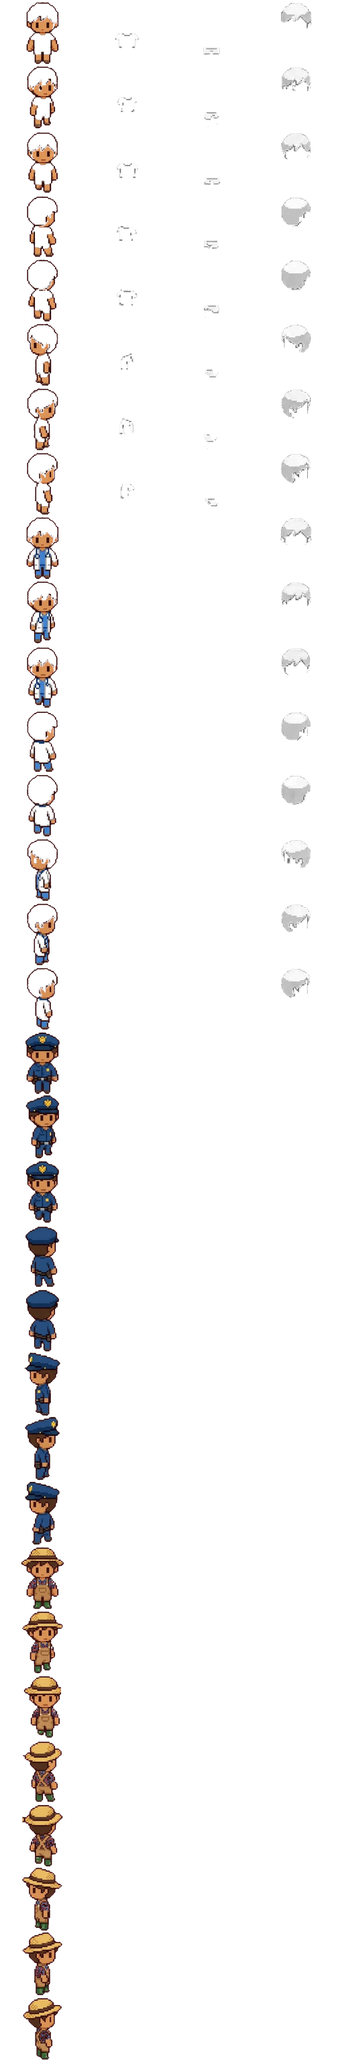
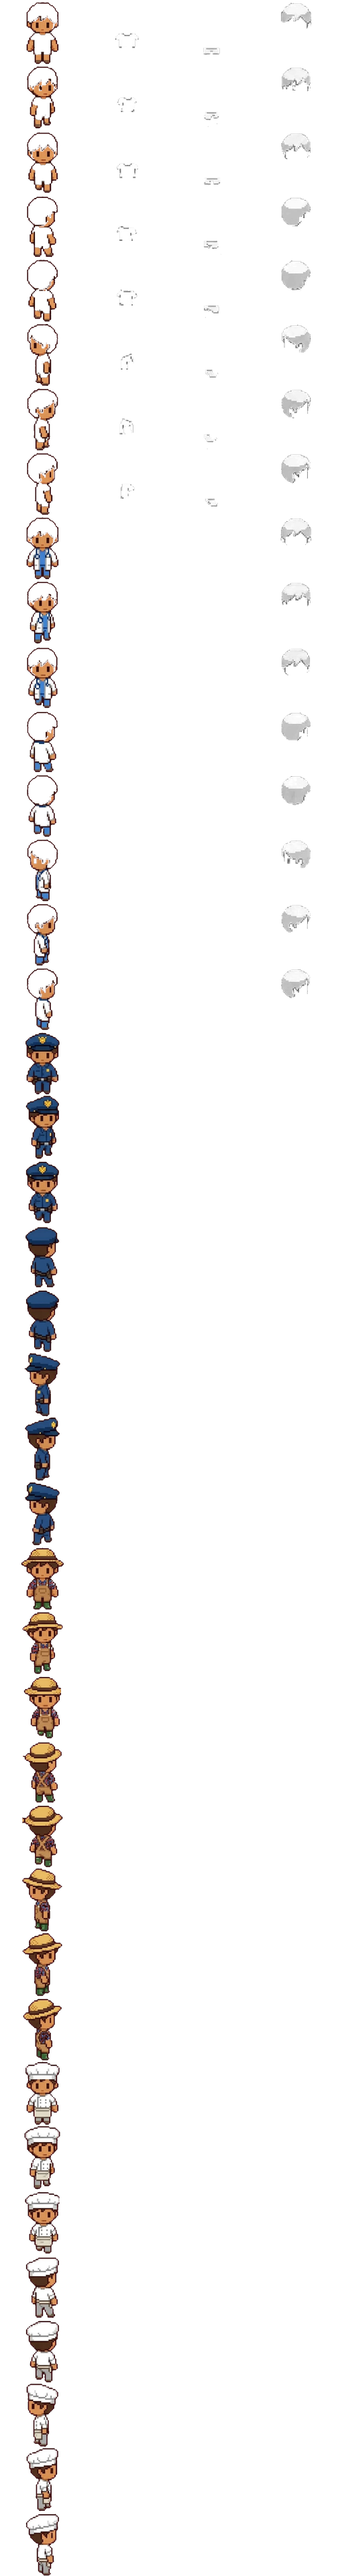
Chef outfit from the new pixel sheet
Claude-Session: https://claude.ai/code/session_011vTRLcvJmqJKhBboYRSi88

Changed region(s): [[0.0595, 0.0, 0.1786, 1.0], [0.8333, 0.0, 0.9226, 0.5]]

diff --git a/public/game.js b/public/game.js
@@ -64,7 +64,7 @@ function charFrame(frame, lk) {
   return c;
 }
 // draw one character with its feet at (fx, fy), k = scale per sprite pixel; view = front | side | back; step = walk step 0-3; faceLeft for the side view
-const CAREER_OUTFIT = { doctor: 'doctor', police: 'police', farmer: 'farmer' };
+const CAREER_OUTFIT = { doctor: 'doctor', police: 'police', farmer: 'farmer', chef: 'chef' };
 const WALK = { front: ['down0', 'down1', 'down0', 'down2'], back: ['up0', 'up1', 'up0', 'up1'], side: ['left0', 'left1', 'left0', 'left2'] };
 function drawCharTo(g, p, fx, fy, k, view, step, faceLeft) {
   // career outfits: doctors wear the white coat + scrubs sheet (only their hair colour is applied)

diff --git a/tools/build_pixel_chars.py b/tools/build_pixel_chars.py
@@ -16,7 +16,8 @@ OUT = 'public/assets/pchar'
 # outfit -> (sheet, which layers are recoloured). Outfits other than 'base' keep their clothes and only dye the hair.
 SHEETS = {'base': ('tools/sheets/pixel_char.jpg', ('shirt', 'pants', 'hair')), 'doctor': ('tools/sheets/pixel_doctor.jpg', ('hair',)),
           'police': ('tools/sheets/pixel_police.jpg', ()),
-          'farmer': ('tools/sheets/pixel_farmer.jpg', ())}
+          'farmer': ('tools/sheets/pixel_farmer.jpg', ()),
+          'chef': ('tools/sheets/pixel_chef.jpg', ())}
 # per-sheet frame overrides (some sheets put the poses in different cells)
 FRAME_FIX = {'police': {'left2': 6}}
 TARGET_H = 96

diff --git a/README.md b/README.md
@@ -99,7 +99,7 @@ npm start          # http://localhost:3000
 บน Render เซิร์ฟเวอร์จะ ping ตัวเองทุก 9 นาที (ใช้ `RENDER_EXTERNAL_URL` ที่ Render ใส่ให้เอง หรือกำหนด `KEEPALIVE_URL` เอง) จึงไม่หลับตอนไม่มีคนเล่น
 
 ## กราฟิกตัวละครและหน้าจอ
-- ตัวละคร (พิกเซลอาร์ต): `tools/sheets/pixel_char.jpg` → `python3 tools/build_pixel_chars.py` → `public/assets/pchar.webp/json` · 8 เฟรม (หน้า 3, หลัง 2, ข้าง 3 กลับด้านเป็นขวา) แต่ละเฟรมแยก 4 ชั้น: ตัว / เสื้อ / กางเกง / ผม แล้วเกมย้อมสีตามที่ผู้เล่นเลือก · ชุดตามอาชีพ: แพทย์ใส่เสื้อกาวน์ + ชุดสครับ (`pixel_doctor.jpg`, ย้อมแค่สีผม), ตำรวจใส่เครื่องแบบ + หมวก (`pixel_police.jpg`), เกษตรกรใส่หมวกฟาง + เอี๊ยม + บู๊ท (`pixel_farmer.jpg`) เพิ่มชุดอาชีพอื่นได้ที่ `SHEETS` ใน build_pixel_chars.py · ผู้เล่นใหม่เลือกเพศและสีเสื้อ ผมเริ่มต้นเหมือนกันทุกคน (น้ำตาล) ย้อมผม/เปลี่ยนเสื้อ/กางเกงได้ที่ร้านแฟชั่น & ทำผม · ชาวเมือง NPC 12 คนเดินไปมาในเมือง
+- ตัวละคร (พิกเซลอาร์ต): `tools/sheets/pixel_char.jpg` → `python3 tools/build_pixel_chars.py` → `public/assets/pchar.webp/json` · 8 เฟรม (หน้า 3, หลัง 2, ข้าง 3 กลับด้านเป็นขวา) แต่ละเฟรมแยก 4 ชั้น: ตัว / เสื้อ / กางเกง / ผม แล้วเกมย้อมสีตามที่ผู้เล่นเลือก · ชุดตามอาชีพ: แพทย์ใส่เสื้อกาวน์ + ชุดสครับ (`pixel_doctor.jpg`, ย้อมแค่สีผม), ตำรวจใส่เครื่องแบบ + หมวก (`pixel_police.jpg`), เกษตรกรใส่หมวกฟาง + เอี๊ยม + บู๊ท (`pixel_farmer.jpg`), เชฟใส่หมวกเชฟ + เสื้อเชฟ + ผ้ากันเปื้อน (`pixel_chef.jpg`) เพิ่มชุดอาชีพอื่นได้ที่ `SHEETS` ใน build_pixel_chars.py · ผู้เล่นใหม่เลือกเพศและสีเสื้อ ผมเริ่มต้นเหมือนกันทุกคน (น้ำตาล) ย้อมผม/เปลี่ยนเสื้อ/กางเกงได้ที่ร้านแฟชั่น & ทำผม · ชาวเมือง NPC 12 คนเดินไปมาในเมือง
 - หน้าจอ/เมนู: `tools/sheets/ui.jpg` → `python3 tools/build_ui.py` → `public/assets/ui/*.png` (กระดาษหนังสัตว์ ปุ่มไอคอน รูปหน้าตัวละคร ไอคอนสถานะ) ธีมไม้ + กระดาษ อยู่ใน `public/style.css`
 
 ## กราฟิก
